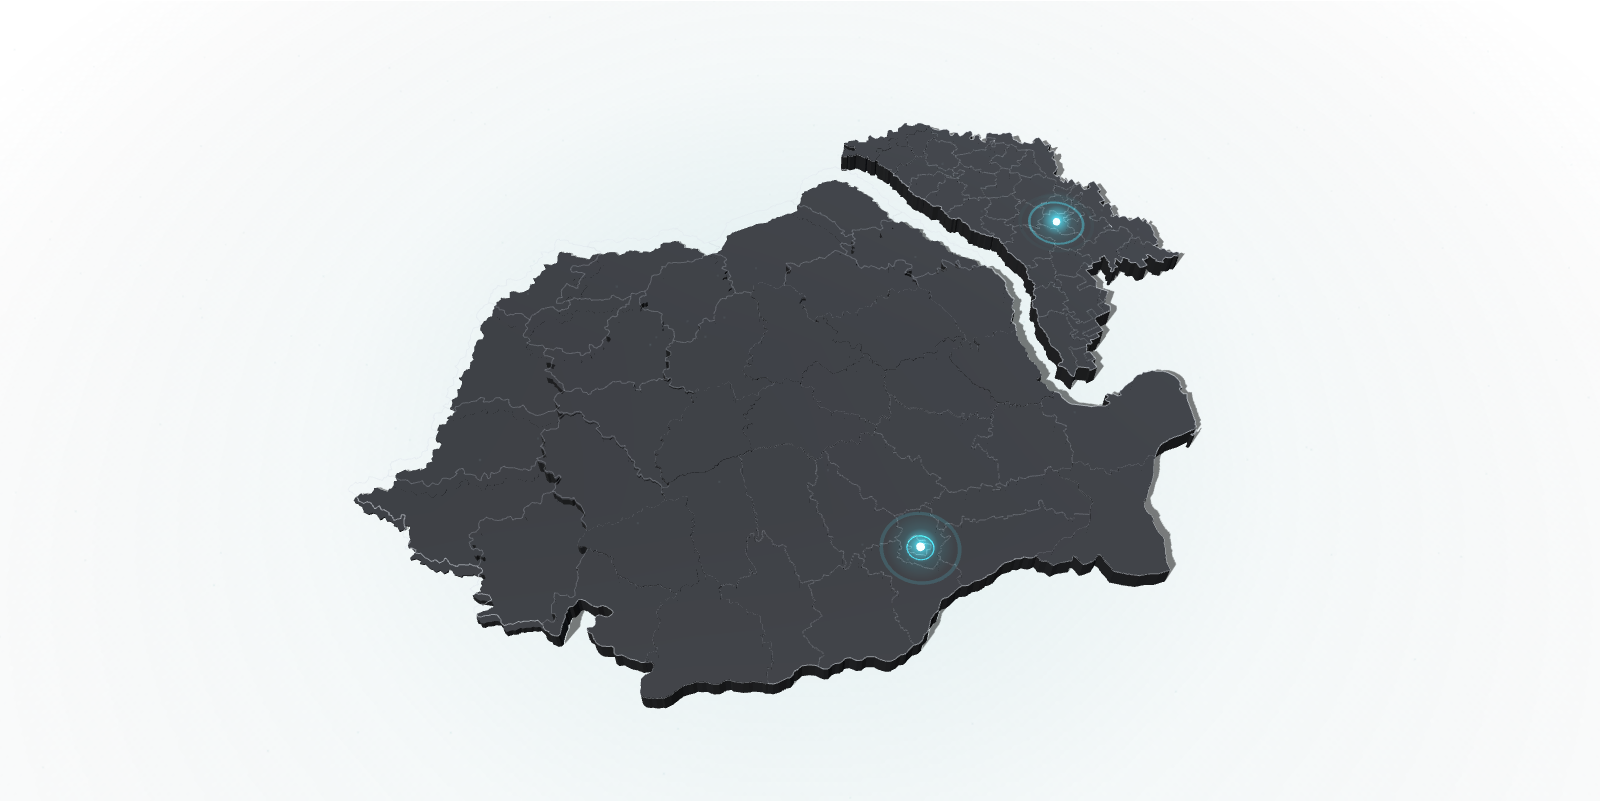
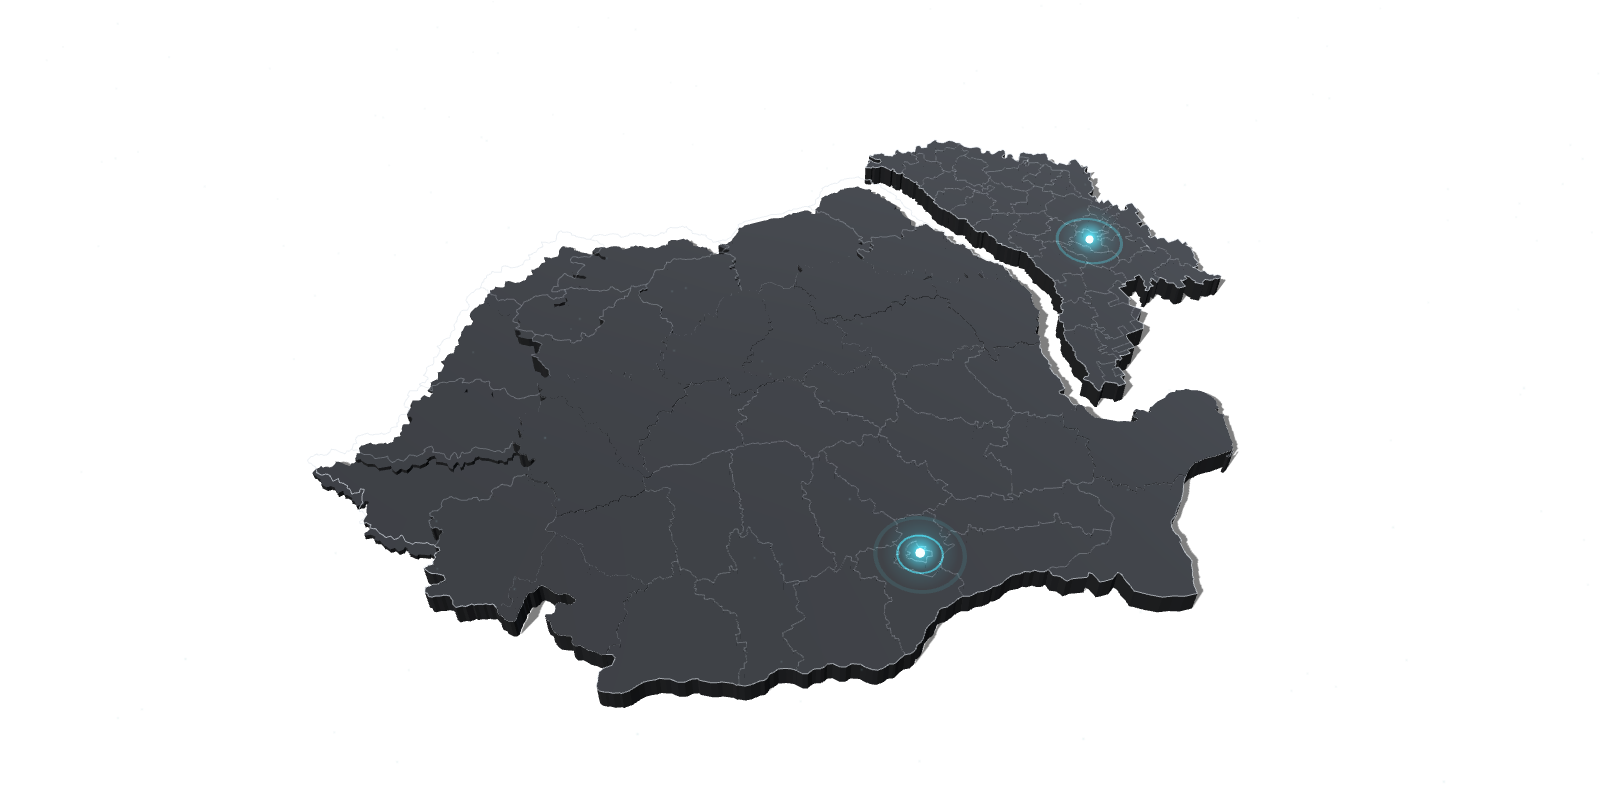
Linia de sub harta: lumina iese din canvas, albul intra in sectiune
Doua cauze, amandoua masurate, nu ghicite.

Linia propriu-zisa, la 10100px in pagina: praful de peste zorii albi era
agatat deasupra sectiunii lui, iar un element care picteaza in afara cutiei
cu fundal nu are pe ce sa se amestece -- overlay fara backdrop se intoarce
la culoarea sursei, adica gri plat, +10 niveluri de luminanta, fix pe toata
latimea paginii. Zorii se deseneaza acum in sectiunea hartii, pe fundalul
ei, sub praful ei. Banda de lumina nu mai deseneaza nimic in afara ei.

"Nu e full screen": balta de lumina de sub placa era un plan in scena 3D,
deci o lumina desenata pe suprafata de desen -- se taia la toate cele patru
margini ale canvasului. A iesit din scena si s-a refacut in CSS, tintita pe
placa prin cutia scenei, dar desenata pe pagina: iese din cutie in toate
directiile si e transparenta cu mult inainte sa atinga vreo margine.
Masurat fata de versiunea veche: maximum 3 niveluri diferenta pe tot
cadrul. Fara plafonul de 1520px pe scena, care lasa marginile ecranului
goale pe monitoarele late.

In plus: un singur strat de praf, ultimul, peste tot ce deseneaza sectiunea;
posterul se re-randeaza fara fundal, doar placa, deci se aseaza pe orice
latime; scena are cu un plan transparent mai putin de desenat, deci si
cateva milisecunde pe cadru in minus.

Claude-Session: https://claude.ai/code/session_01QRVVwB1kQe32sq3UwXfRmR

Changed region(s): [[0.1875, 0.1561, 0.7812, 0.9051], [0.5312, 0.6242, 0.5938, 0.7179], [0.3438, 0.6242, 0.375, 0.6554]]

diff --git a/src/scripts/romap.ts b/src/scripts/romap.ts
@@ -272,17 +272,12 @@ export function mount(section: HTMLElement): void {
   tiltGroup.add(mapGroup);
 
   /* ---- the table under the map ------------------------------------------ */
-  const poolTex = radialTexture(512, [
-    [0, 'rgba(90,175,182,0.20)'],
-    [0.45, 'rgba(70,140,148,0.06)'],
-    [1, 'rgba(0,0,0,0)'],
-  ]);
-  const pool = new Mesh(
-    new PlaneGeometry(26, 26),
-    new MeshBasicMaterial({ map: poolTex, transparent: true, depthWrite: false })
-  );
-  pool.position.set(CAM_TARGET.x, CAM_TARGET.y, -0.02);
-  tiltGroup.add(pool); // the table tilts with the map, or the plate sinks under it
+  /* There is no pool of light in here any more. A glow drawn inside the canvas
+     is a glow inside a rectangle: it ran off all four edges of the drawing
+     surface and cut, which is what read as a band under the map and as the
+     section "not being full screen". The light the plate sits in is CSS now --
+     it belongs to the page, so it has no box to be cut by. What stays in the
+     canvas is only what the map itself casts: its shadow. */
   if (shadows) {
     const sh = new Mesh(new PlaneGeometry(30, 30), new ShadowMaterial({ opacity: 0.5 }));
     sh.receiveShadow = true;
